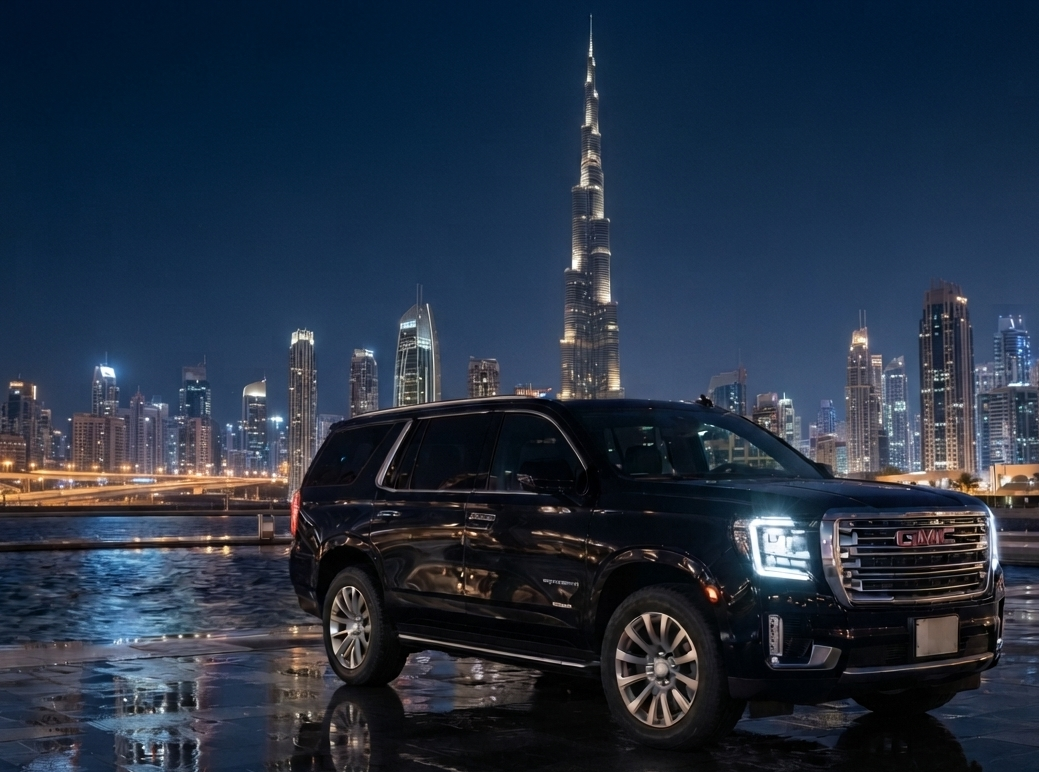
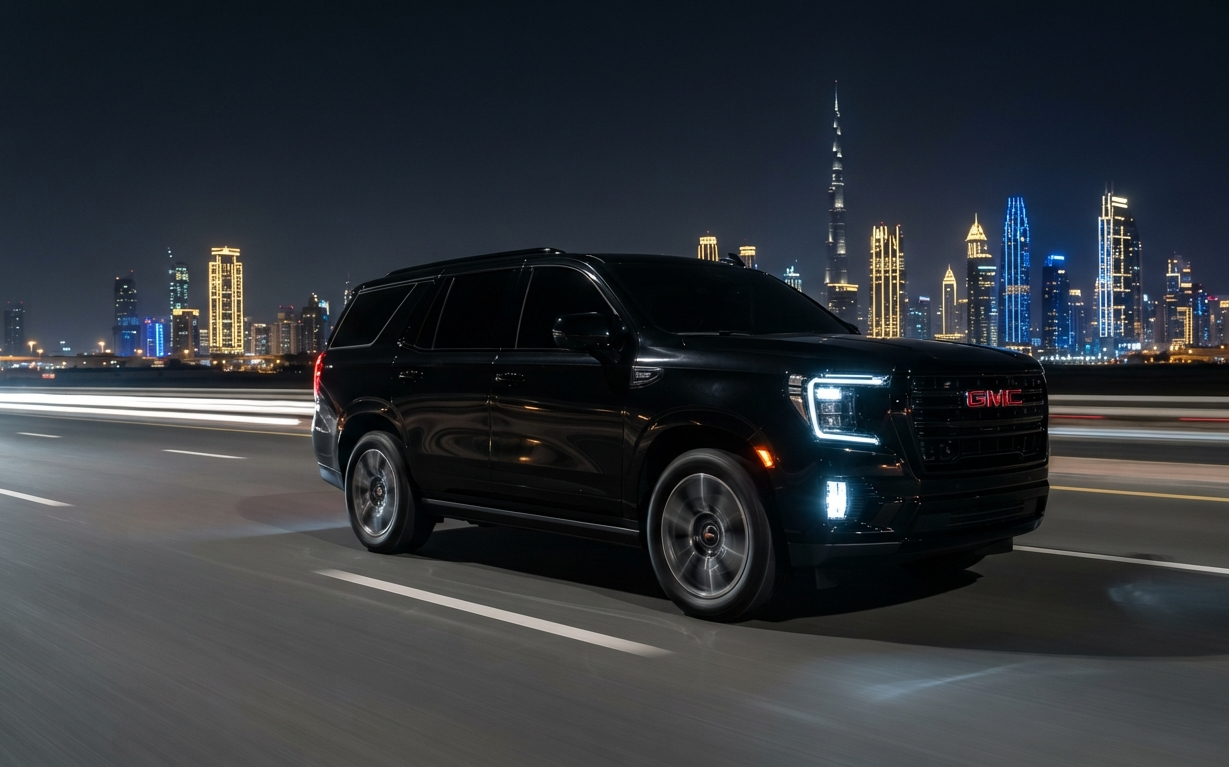
polish and refinement

diff --git a/src/App.jsx b/src/App.jsx
@@ -1,4 +1,4 @@
-import { useState } from 'react'
+import { useEffect, useRef, useState } from 'react'
 import {
   Plane, Briefcase, Heart, MapPin,
   ShieldCheck, Clock, Armchair, Phone,
@@ -84,16 +84,47 @@ const FLEET_FEATURES = [
 
 export default function App() {
   const [menuOpen, setMenuOpen] = useState(false)
+  const [heroVisible, setHeroVisible] = useState(true)
+  const [nearFooter, setNearFooter] = useState(false)
+  const heroRef = useRef(null)
+  const footerRef = useRef(null)
+
+  useEffect(() => {
+    const hero = heroRef.current
+    const footer = footerRef.current
+    if (!hero || !footer) return
+
+    const heroObserver = new IntersectionObserver(
+      ([entry]) => setHeroVisible(entry.isIntersecting),
+      { rootMargin: '-64px 0px 0px 0px' }
+    )
+    heroObserver.observe(hero)
+
+    const footerObserver = new IntersectionObserver(
+      ([entry]) => setNearFooter(entry.isIntersecting),
+      { rootMargin: '0px 0px -10% 0px' }
+    )
+    footerObserver.observe(footer)
+
+    return () => {
+      heroObserver.disconnect()
+      footerObserver.disconnect()
+    }
+  }, [])
+
+  const hideFloatingCta = heroVisible || nearFooter
 
   return (
     <div className="min-h-screen bg-bg text-text font-sans">
 
-      {/* Floating WhatsApp */}
+      {/* Floating WhatsApp: redundant while the hero's own WhatsApp CTA or the footer's are already in view */}
       <a
         href={WA_URL}
         target="_blank"
         rel="noopener noreferrer"
-        className="fixed bottom-6 right-6 z-50 flex items-center gap-2 bg-accent hover:bg-accent/90 text-bg px-5 py-3 rounded-sm shadow-2xl transition-colors duration-200 text-sm font-medium"
+        aria-hidden={hideFloatingCta}
+        tabIndex={hideFloatingCta ? -1 : 0}
+        className={`fixed bottom-6 right-6 z-50 flex items-center gap-2 bg-accent hover:bg-accent/90 text-bg px-5 py-3 rounded-sm shadow-2xl transition-opacity motion-reduce:transition-none duration-200 text-sm font-medium ${hideFloatingCta ? 'opacity-0 pointer-events-none' : 'opacity-100'}`}
       >
         <MessageCircle className="w-4 h-4" aria-hidden="true" />
         WhatsApp
@@ -121,7 +152,7 @@ export default function App() {
             </a>
           </div>
           <button
-            className="md:hidden p-2 -mr-2 text-text-muted hover:text-text transition-colors"
+            className="md:hidden min-w-[44px] min-h-[44px] flex items-center justify-center -mr-2 text-text-muted hover:text-text transition-colors"
             onClick={() => setMenuOpen(v => !v)}
             aria-label="Toggle menu"
             aria-expanded={menuOpen}
@@ -157,7 +188,7 @@ export default function App() {
 
       <main>
         {/* Hero */}
-        <section className="relative min-h-screen flex flex-col items-center justify-center text-center px-6 pt-16 overflow-hidden">
+        <section ref={heroRef} className="relative min-h-screen flex flex-col items-center justify-center text-center px-6 pt-16 overflow-hidden">
           <div className="absolute inset-0 pointer-events-none">
             <div className="absolute top-1/2 left-1/2 -translate-x-1/2 -translate-y-1/2 w-[700px] h-[500px] bg-accent/5 rounded-full blur-[120px]" />
           </div>
@@ -171,7 +202,7 @@ export default function App() {
           <div className="absolute bottom-0 left-0 right-0 h-px bg-gradient-to-r from-transparent via-line to-transparent" />
 
           <div className="relative z-10 max-w-3xl mx-auto">
-            <p className="text-accent/70 text-[10px] tracking-[0.5em] uppercase mb-10 font-medium">
+            <p className="text-accent/85 text-[10px] tracking-[0.5em] uppercase mb-10 font-medium">
               Private Chauffeur, United Arab Emirates
             </p>
             <h1
@@ -351,7 +382,7 @@ export default function App() {
       </main>
 
       {/* Footer */}
-      <footer className="border-t border-line py-10 px-6">
+      <footer ref={footerRef} className="border-t border-line py-10 px-6">
         <div className="max-w-6xl mx-auto flex flex-col md:flex-row items-center justify-between gap-6 text-center md:text-left">
           <span
             className="text-accent text-xl tracking-[0.3em] font-serif font-light"

diff --git a/src/components/RateCard.jsx b/src/components/RateCard.jsx
@@ -59,7 +59,10 @@ function lowestSeasonValue(row, seasons) {
   const values = seasons
     .map((season) => row[season.id])
     .filter((value) => typeof value === 'number')
-  return values.length ? Math.min(...values) : null
+  if (values.length < 2) return null
+  const min = Math.min(...values)
+  const allEqual = values.every((value) => value === min)
+  return allEqual ? null : min
 }
 
 function digitsOnly(phone) {
@@ -67,7 +70,7 @@ function digitsOnly(phone) {
 }
 
 function ContactButton({ method, phone, serviceName }) {
-  const baseClasses = 'inline-flex items-center justify-center gap-2 min-h-[44px] px-5 py-3 rounded-sm border border-line text-text text-sm hover:border-accent hover:bg-bg/40 transition-colors duration-200 focus-visible:outline focus-visible:outline-2 focus-visible:outline-accent focus-visible:outline-offset-2'
+  const baseClasses = 'inline-flex items-center justify-center gap-2 min-h-[44px] px-5 py-3 rounded-sm border border-line text-text text-sm hover:border-accent hover:bg-bg/40 transition-colors duration-200'
 
   if (method === 'call') {
     return (

diff --git a/src/index.css b/src/index.css
@@ -33,6 +33,11 @@ section[id] {
   scroll-margin-top: 5rem;
 }
 
+:focus-visible {
+  outline: 2px solid var(--color-accent);
+  outline-offset: 2px;
+}
+
 @keyframes drift {
   0%,
   100% {